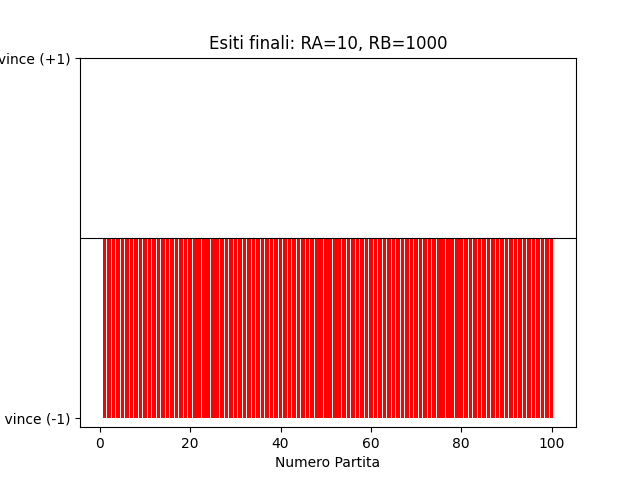
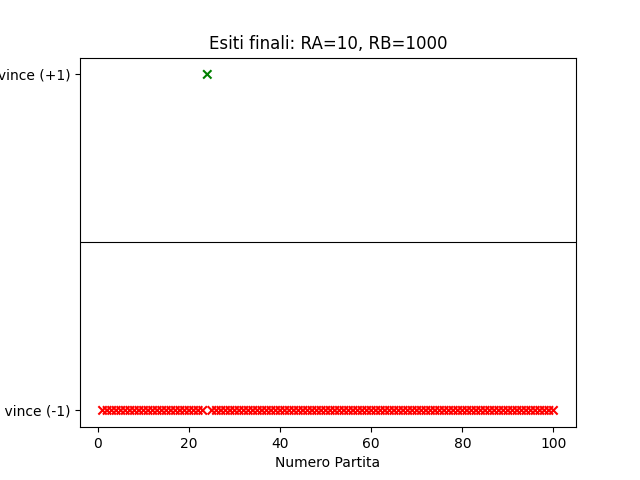
problema 2

diff --git a/apple.py b/apple.py
@@ -1,0 +1,38 @@
+import matplotlib.pyplot as plt
+import numpy as np
+
+n = 100  
+prezzo_iniziale = 23 
+
+# Generazione dei cambiamenti giornalieri: +2% o -2%
+cambiamenti = np.random.choice([0.02, -0.02], size=n)
+
+# Calcolo dei prezzi cumulativi
+prezzi = [prezzo_iniziale]
+for cambio in cambiamenti:
+    nuovo_prezzo = prezzi[-1] * (1 + cambio)
+    prezzi.append(nuovo_prezzo)
+
+ys = []
+for i in range(6, n+1):
+    ultimi_6 = cambiamenti[i-6:i]
+    salite = sum(1 for c in ultimi_6 if c == 0.02)
+    y = 1 if salite >= 3 else -1
+    ys.append(y)
+
+plt.subplot(2, 1, 1)
+plt.plot(range(n+1), prezzi, marker='o', markersize=2)
+plt.title('Prezzo dell\'azione nel tempo')
+plt.xlabel('Giorno')
+plt.ylabel('Prezzo')
+
+plt.subplot(2, 1, 2)
+plt.plot(range(6, n+1), ys, 'xr')
+plt.title('Condizione soddisfatta (1) o no (-1) per ogni step')
+plt.xlabel('Step (a partire dal giorno 6)')
+plt.ylabel('y')
+plt.yticks([-1, 1])
+
+plt.tight_layout()
+plt.savefig('fig/simulazioni_azioni.png')
+plt.show()

diff --git a/giocatore_contro_banco.py b/giocatore_contro_banco.py
@@ -13,7 +13,7 @@ for i in range(n_simulazioni):
 
     esiti.append(1 if guadagno == RB else -1)
 
-plt.bar(range(1, n_simulazioni + 1), esiti, color=['green' if e == 1 else 'red' for e in esiti])
+plt.scatter(range(1, n_simulazioni + 1), esiti, marker='x', color=['green' if e == 1 else 'red' for e in esiti])
 plt.axhline(0, color='black', linewidth=0.8)
 plt.yticks([-1, 1], ['Banco vince (-1)', 'A vince (+1)'])
 plt.xlabel('Numero Partita')
